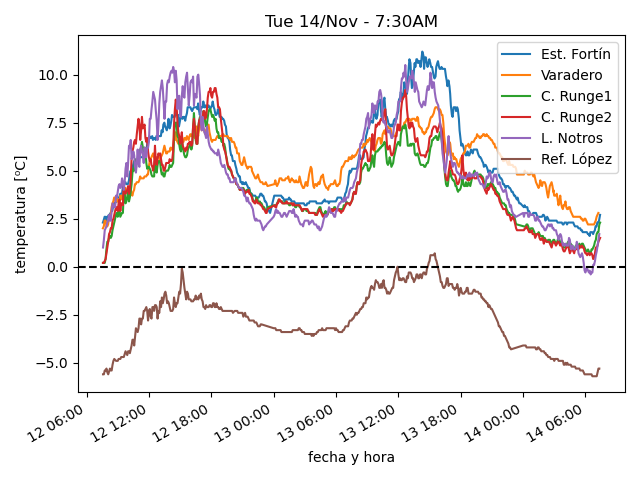
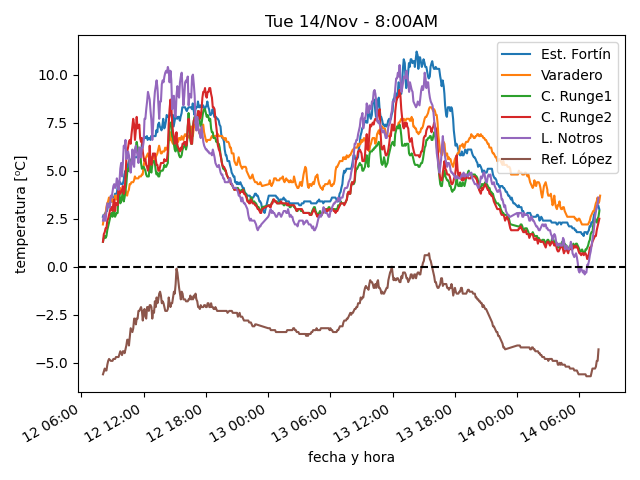
actualiza datos

diff --git a/estaciones/estacion2.html b/estaciones/estacion2.html
@@ -18,32 +18,32 @@
     </tr>
     <tr>
      <td class="stats_data">
-      7:14AM
+      7:59AM
      </td>
     </tr>
     <tr>
      <td class="stats_data">
-      2.8⁰C
+      3.7⁰C
      </td>
     </tr>
     <tr>
      <td class="stats_data">
-      -3.8⁰C
+      -3.3⁰C
      </td>
     </tr>
     <tr>
      <td class="stats_data">
-      62.0%
+      60.3%
      </td>
     </tr>
     <tr>
      <td class="stats_data">
-      1019.34hPa
+      1019.54hPa
      </td>
     </tr>
     <tr>
      <td class="stats_data">
-      4.2/6.7 km/hr SSW
+      4.5/6.3 km/hr SSW
      </td>
     </tr>
     <tr>
@@ -53,12 +53,12 @@
     </tr>
     <tr>
      <td class="stats_data">
-      0.0
+      2.0
      </td>
     </tr>
     <tr>
      <td class="stats_data">
-      56.3 W/m²
+      214.2 W/m²
      </td>
     </tr>
    </tbody>

diff --git a/estaciones/estacion4.html b/estaciones/estacion4.html
@@ -18,32 +18,32 @@
     </tr>
     <tr>
      <td class="stats_data">
-      7:24AM
+      7:54AM
      </td>
     </tr>
     <tr>
      <td class="stats_data">
-      1.5⁰C
+      2.5⁰C
      </td>
     </tr>
     <tr>
      <td class="stats_data">
-      -5.4⁰C
+      -5.3⁰C
      </td>
     </tr>
     <tr>
      <td class="stats_data">
-      60.3%
+      56.5%
      </td>
     </tr>
     <tr>
      <td class="stats_data">
-      1012.84hPa
+      1013.04hPa
      </td>
     </tr>
     <tr>
      <td class="stats_data">
-      0.1/0.5 km/hr SSW
+      1.3/2.2 km/hr SSW
      </td>
     </tr>
     <tr>
@@ -53,12 +53,12 @@
     </tr>
     <tr>
      <td class="stats_data">
-      0.0
+      1.0
      </td>
     </tr>
     <tr>
      <td class="stats_data">
-      37.9 W/m²
+      188.2 W/m²
      </td>
     </tr>
    </tbody>

diff --git a/estaciones/estacion3.html b/estaciones/estacion3.html
@@ -18,12 +18,12 @@
     </tr>
     <tr>
      <td class="stats_data">
-      7:24AM
+      7:54AM
      </td>
     </tr>
     <tr>
      <td class="stats_data">
-      2.3⁰C
+      2.9⁰C
      </td>
     </tr>
     <tr>
@@ -33,17 +33,17 @@
     </tr>
     <tr>
      <td class="stats_data">
-      61.0%
+      58.5%
      </td>
     </tr>
     <tr>
      <td class="stats_data">
-      1004.34hPa
+      1004.44hPa
      </td>
     </tr>
     <tr>
      <td class="stats_data">
-      1.6/2.6 km/hr SW
+      3.8/5.3 km/hr SW
      </td>
     </tr>
     <tr>
@@ -53,12 +53,12 @@
     </tr>
     <tr>
      <td class="stats_data">
-      0.0
+      2.0
      </td>
     </tr>
     <tr>
      <td class="stats_data">
-      54.6 W/m²
+      184.7 W/m²
      </td>
     </tr>
    </tbody>

diff --git a/estaciones/estacion1.html b/estaciones/estacion1.html
@@ -18,22 +18,22 @@
     </tr>
     <tr>
      <td class="stats_data">
-      7:24AM
+      7:54AM
      </td>
     </tr>
     <tr>
      <td class="stats_data">
-      2.7⁰C
+      3.0⁰C
      </td>
     </tr>
     <tr>
      <td class="stats_data">
-      -3.5⁰C
+      -3.9⁰C
      </td>
     </tr>
     <tr>
      <td class="stats_data">
-      63.7%
+      60.3%
      </td>
     </tr>
     <tr>
@@ -43,7 +43,7 @@
     </tr>
     <tr>
      <td class="stats_data">
-      13.3/22.5 km/hr WNW
+      15.7/33.8 km/hr WSW
      </td>
     </tr>
     <tr>
@@ -58,7 +58,7 @@
     </tr>
     <tr>
      <td class="stats_data">
-      181.0 W/m²
+      279.0 W/m²
      </td>
     </tr>
    </tbody>

diff --git a/estaciones/estacion6.html b/estaciones/estacion6.html
@@ -18,17 +18,17 @@
     </tr>
     <tr>
      <td class="stats_data">
-      7:20AM
+      7:50AM
      </td>
     </tr>
     <tr>
      <td class="stats_data">
-      -5.3⁰C
+      -4.3⁰C
      </td>
     </tr>
     <tr>
      <td class="stats_data">
-      -7.0⁰C
+      -6.0⁰C
      </td>
     </tr>
     <tr>
@@ -38,7 +38,7 @@
     </tr>
     <tr>
      <td class="stats_data">
-      1015.95hPa
+      1015.92hPa
      </td>
     </tr>
     <tr>
@@ -58,7 +58,7 @@
     </tr>
     <tr>
      <td class="stats_data">
-      912.0 W/m²
+      921.0 W/m²
      </td>
     </tr>
    </tbody>

diff --git a/estaciones/estacion5.html b/estaciones/estacion5.html
@@ -18,27 +18,27 @@
     </tr>
     <tr>
      <td class="stats_data">
-      7:20AM
+      7:50AM
      </td>
     </tr>
     <tr>
      <td class="stats_data">
-      1.7⁰C
+      3.6⁰C
      </td>
     </tr>
     <tr>
      <td class="stats_data">
-      -4.3⁰C
+      -3.1⁰C
      </td>
     </tr>
     <tr>
      <td class="stats_data">
-      64.0%
+      62.0%
      </td>
     </tr>
     <tr>
      <td class="stats_data">
-      1017.54hPa
+      1017.0hPa
      </td>
     </tr>
     <tr>
